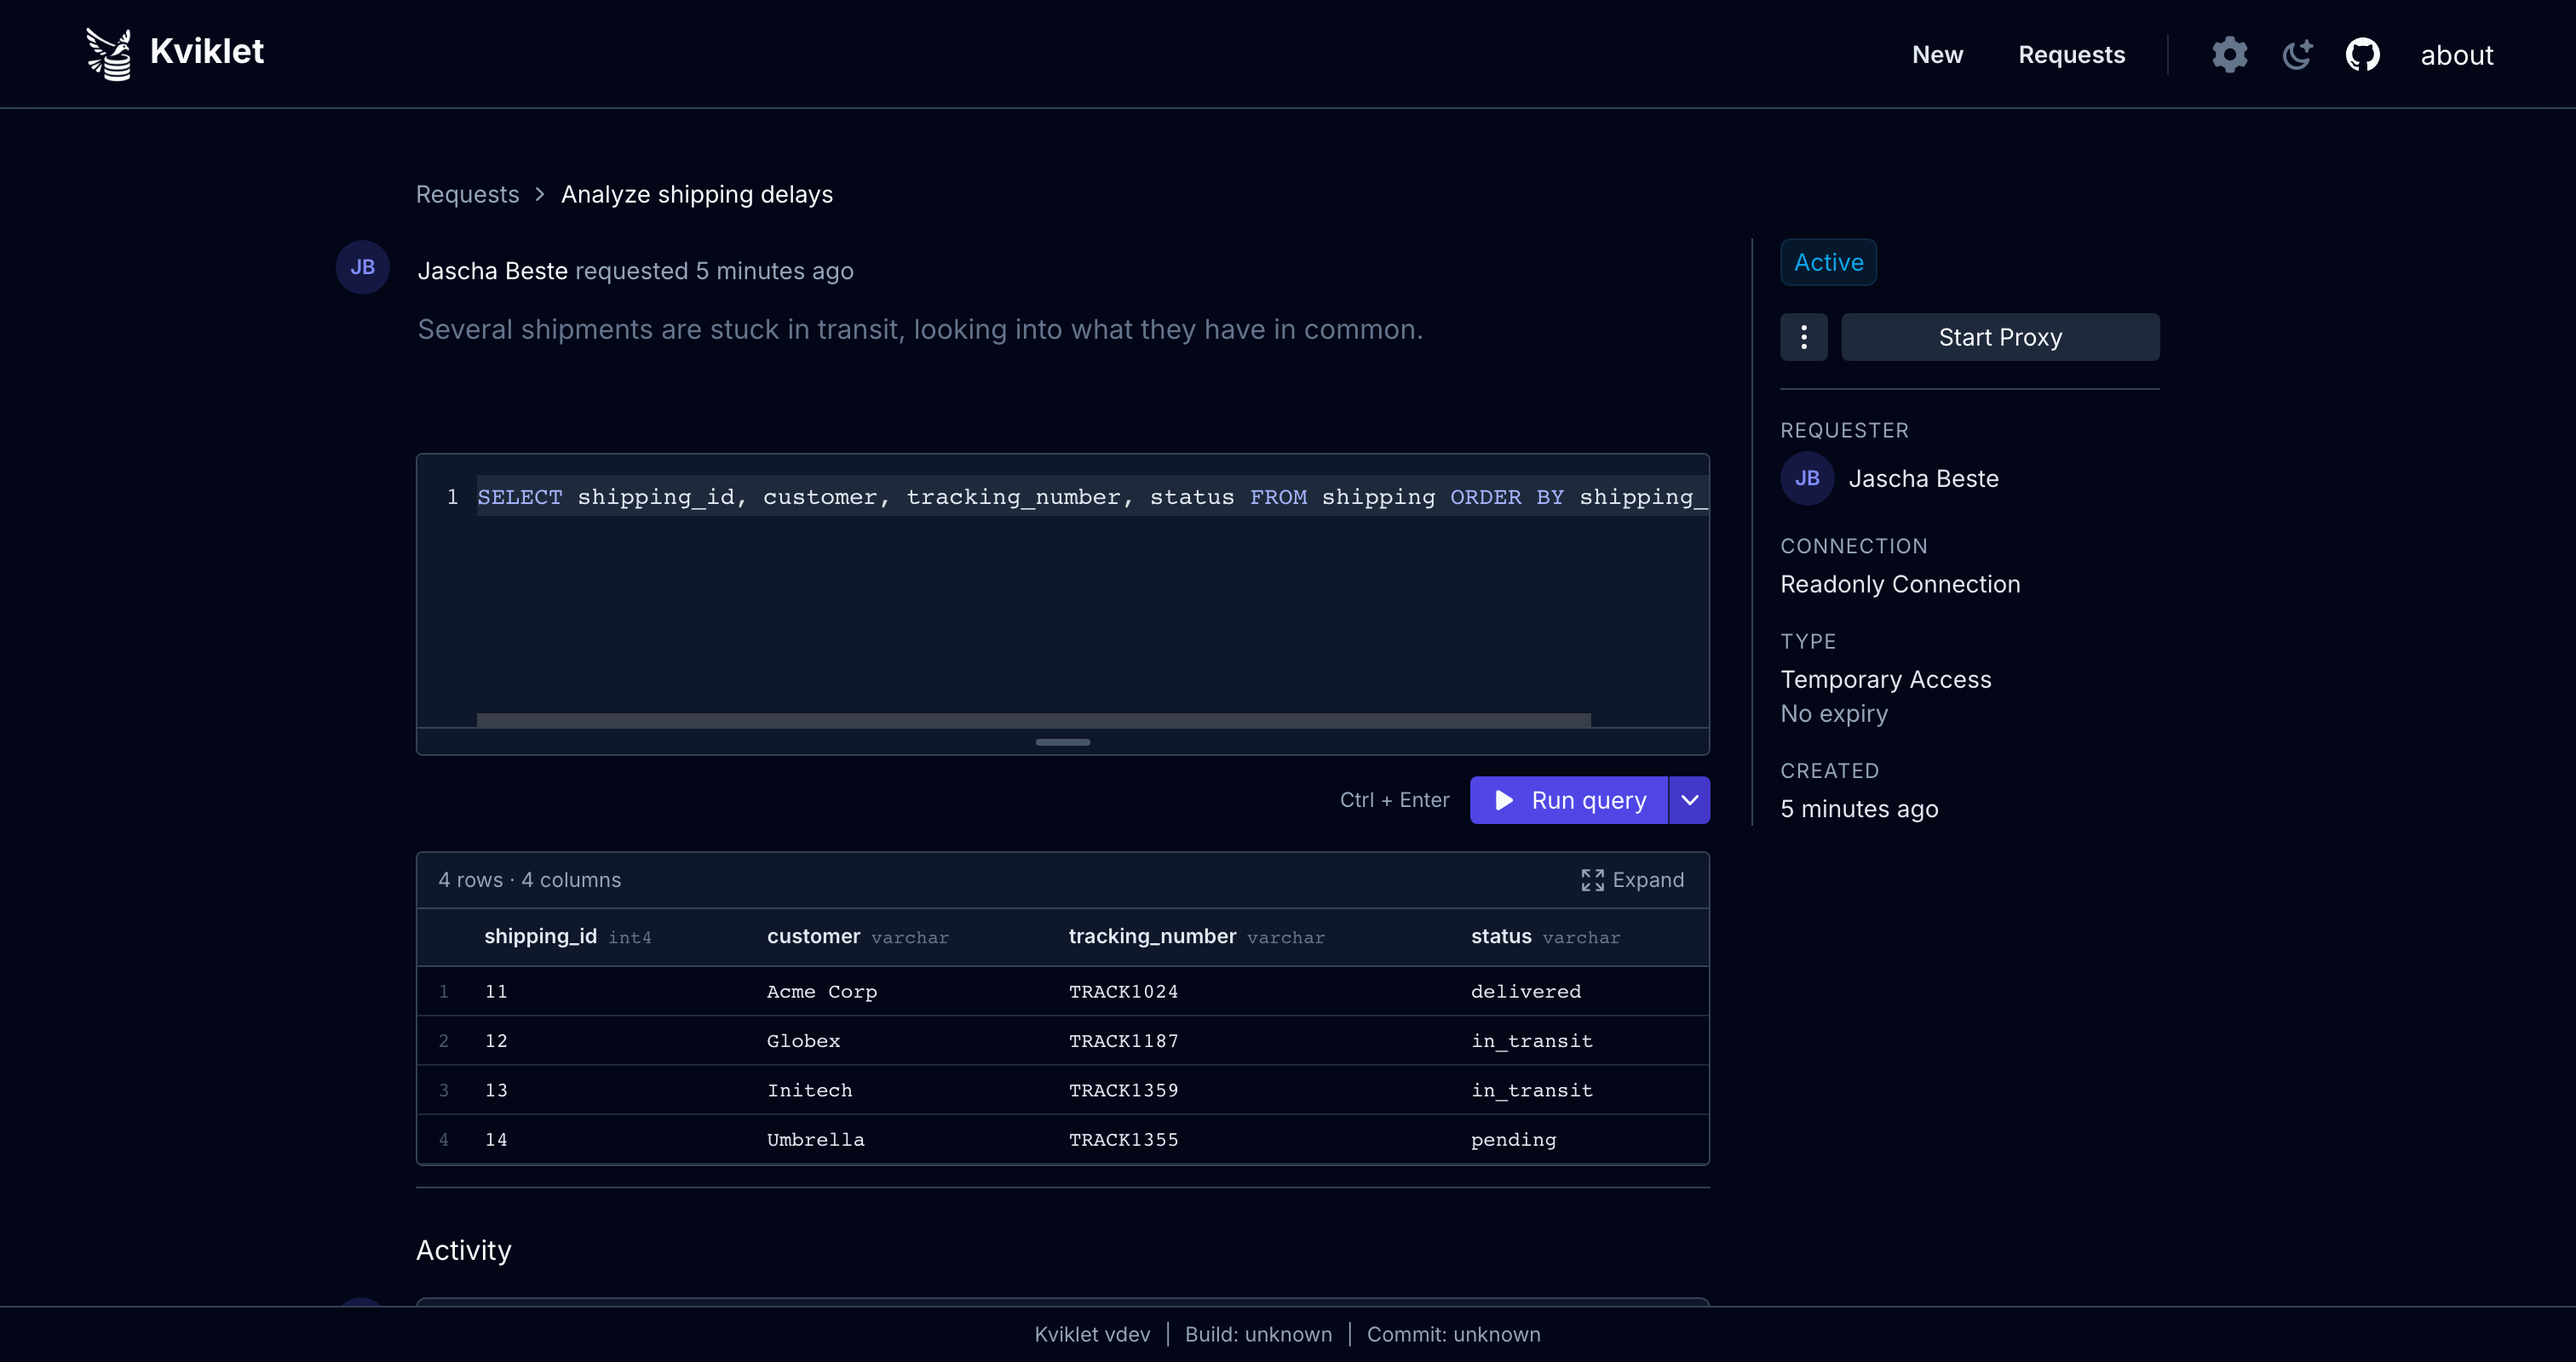
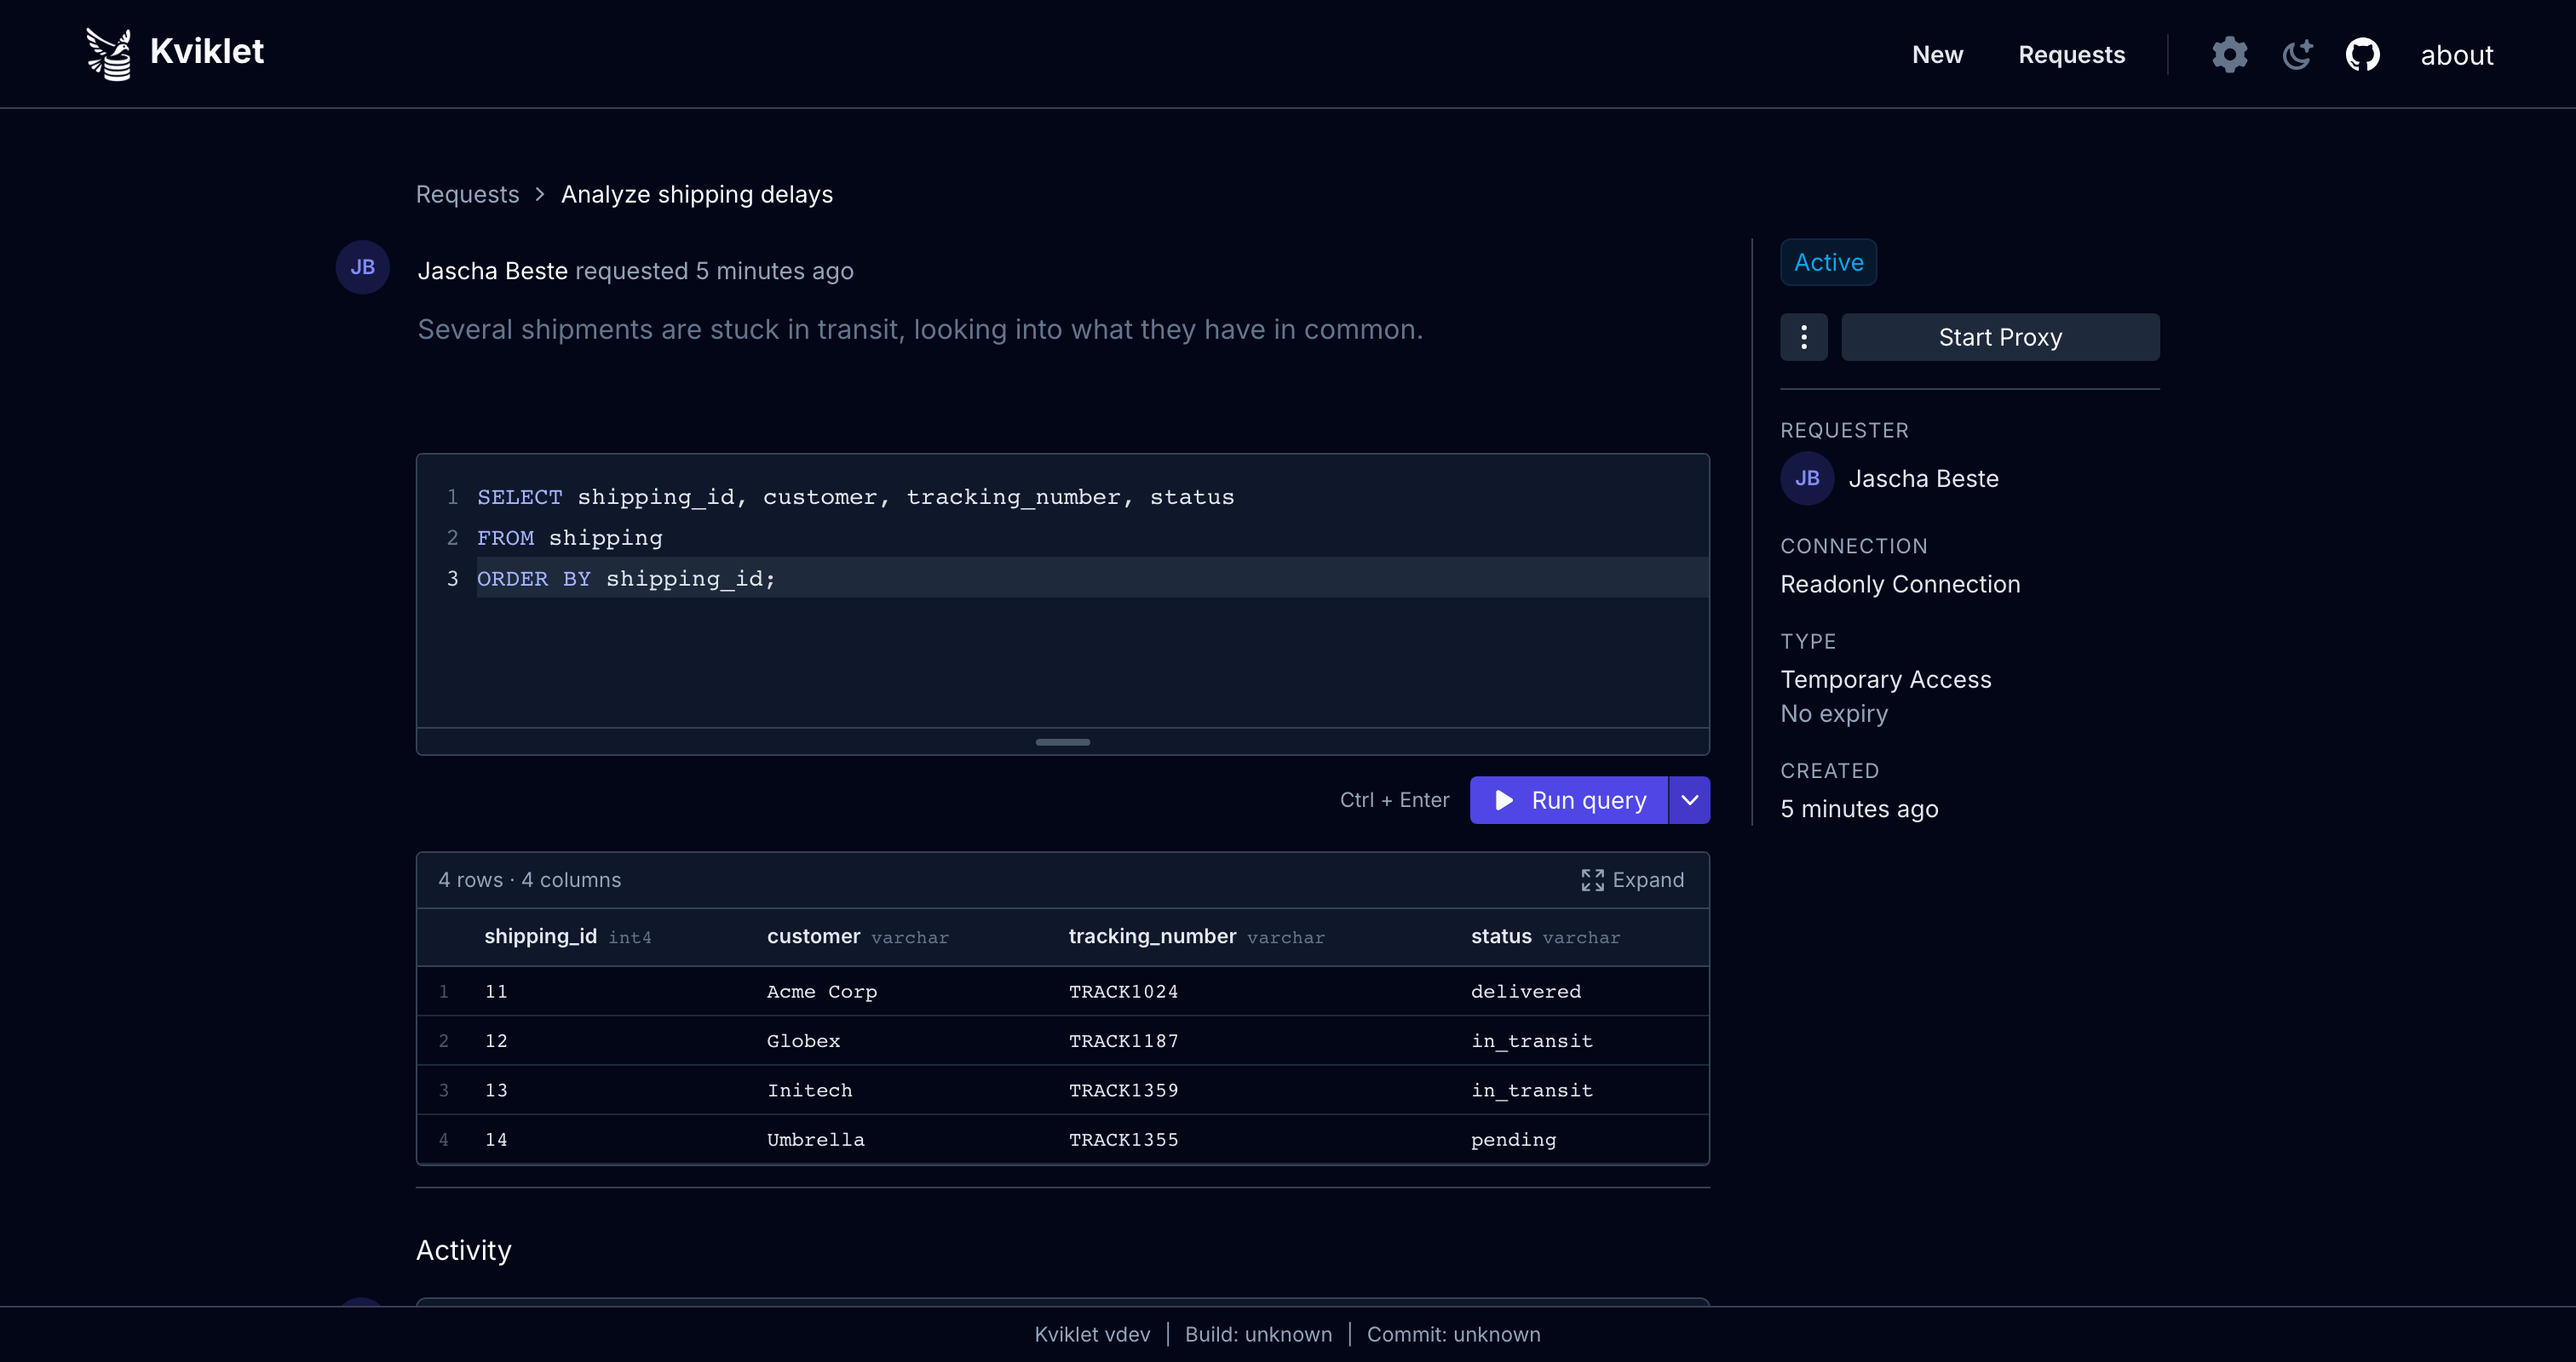
Break the LiveSession screenshot query across three lines (#565)

diff --git a/e2e/tests/screenshots/screenshots.spec.ts b/e2e/tests/screenshots/screenshots.spec.ts
@@ -113,11 +113,10 @@ for (const theme of THEMES) {
       await page.keyboard.press("Control+A");
       await page.keyboard.press("Backspace");
       await page.keyboard.type(LIVE_SESSION_QUERY);
-      // The line is wider than the editor, which scrolls to keep the cursor in
-      // view; jump back so the statement reads from its start.
-      await page.keyboard.press("Home");
-      // A one-line query does not need the default editor height; shrink it
-      // so the whole results table fits into the frame.
+      // Monaco renders whitespace as its own glyphs, so match a bare token.
+      await expect(editor).toContainText("shipping_id;");
+      // The query needs fewer lines than the default editor height offers;
+      // shrink it so the whole results table still fits into the frame.
       const resize = page.getByRole("separator", {
         name: "Resize query editor",
       });

diff --git a/e2e/tests/screenshots/seed.ts b/e2e/tests/screenshots/seed.ts
@@ -29,8 +29,11 @@ export const HERO_STATEMENT =
   "UPDATE shipping SET tracking_number = 'TRACK1359' where shipping_id='13';";
 export const PROXY_REQUEST_TITLE = "Investigate order sync delay";
 export const LIVE_SESSION_REQUEST_TITLE = "Analyze shipping delays";
-export const LIVE_SESSION_QUERY =
-  "SELECT shipping_id, customer, tracking_number, status FROM shipping ORDER BY shipping_id;";
+export const LIVE_SESSION_QUERY = [
+  "SELECT shipping_id, customer, tracking_number, status",
+  "FROM shipping",
+  "ORDER BY shipping_id;",
+].join("\n");
 export const PENDING_REQUEST_TITLE = "Backfill missing order totals for July";
 
 const CONNECTIONS: {
